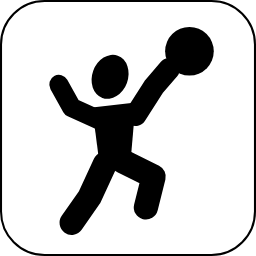
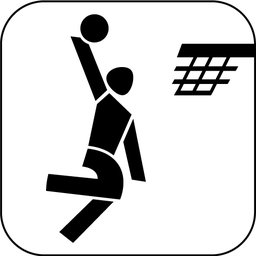
Basketball durch das DOSB-Original ersetzt
Damit stammen alle neun Sparten-Piktogramme aus dem DOSB-Satz; die
Eigenzeichnung als Platzhalter entfällt samt Quelldatei basketball.svg.

Gleich normiert wie die übrigen: auf den Rahmen zugeschnitten, ohne
Verzerrung auf 256 px zentriert. Rand und Rahmenstärke sind bei allen neun
identisch, der Eckenradius schwankt um ein Pixel - das ist Rundung beim
Skalieren der unterschiedlich breiten Vorlagen und nicht sichtbar.

Claude-Session: https://claude.ai/code/session_01CbYKnX67D9NzrjZKCP4pfn

Changed region(s): [[0.0, 0.0, 1.0, 1.0]]

diff --git a/public/piktogramme/README.md b/public/piktogramme/README.md
@@ -10,7 +10,7 @@ den Spartenseiten.
 | `volleyball.png` | Volleyball | DOSB `icon_volleyball` |
 | `leichtathletik.png` | Leichtathletik | DOSB `icon_leichtathletik` |
 | `turnen.png` | Turnen | DOSB `icon_Geraeteturnen_Sprung` |
-| `basketball.png` | Basketball | **Eigenzeichnung, Platzhalter** |
+| `basketball.png` | Basketball | DOSB `icon_basketball` |
 | `tanzen.png` | Tanzen | DOSB `icon_modern_dance` |
 | `outdoor.png` | Outdoor | DOSB `icon_wandern` |
 | `yoga.png` | Yoga | DOSB `icon_yoga` |
@@ -18,25 +18,13 @@ den Spartenseiten.
 
 ## Format
 
-Alle Dateien: PNG, 256 × 256, transparent außerhalb des Rahmens, schwarz auf
+Alle neun Dateien stammen aus dem DOSB-Satz. PNG, 256 × 256, transparent außerhalb des Rahmens, schwarz auf
 weiß. Aus den DOSB-Vorlagen (500 px) erzeugt, indem auf den tatsächlichen
 Rahmen zugeschnitten und ohne Verzerrung auf ein quadratisches Feld zentriert
 wurde – die Vorlagen sind teils 504 px breit.
 
 Dargestellt werden sie mit 64 px in den Sportkarten und 88 px auf den
 Spartenseiten. 256 px deckt damit auch Bildschirme mit dreifacher Auflösung ab.
-
-## Basketball ersetzen
-
-`basketball.png` ist als einziges keine DOSB-Vorlage, sondern von Hand
-gezeichnet (Quelle: `basketball.svg`). Rahmenstärke und Eckenradius sind an
-die DOSB-Geometrie angeglichen, die Gliedmaßen sind aber runder als im
-Original-Stil.
-
-Sobald das DOSB-Piktogramm für Basketball vorliegt: aus dem ZIP die Datei
-`Piktogramme_schwarz_auf_weiss/icon_basketball_schwarz_auf_weiss_500px.png`
-auf 256 × 256 bringen (zuschneiden auf den Rahmen, zentrieren) und hier als
-`basketball.png` ablegen. `basketball.svg` kann dann weg.
 
 ## Herkunft und Nennung
 
